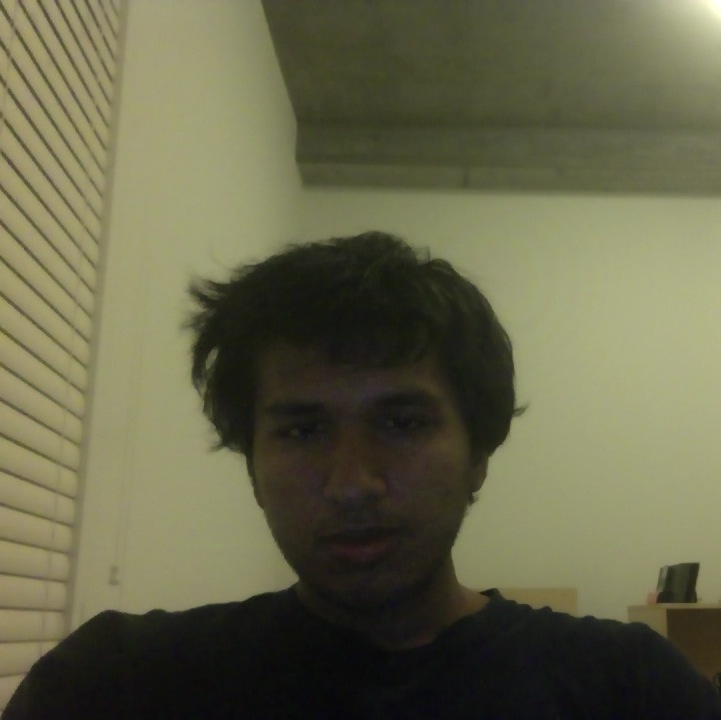
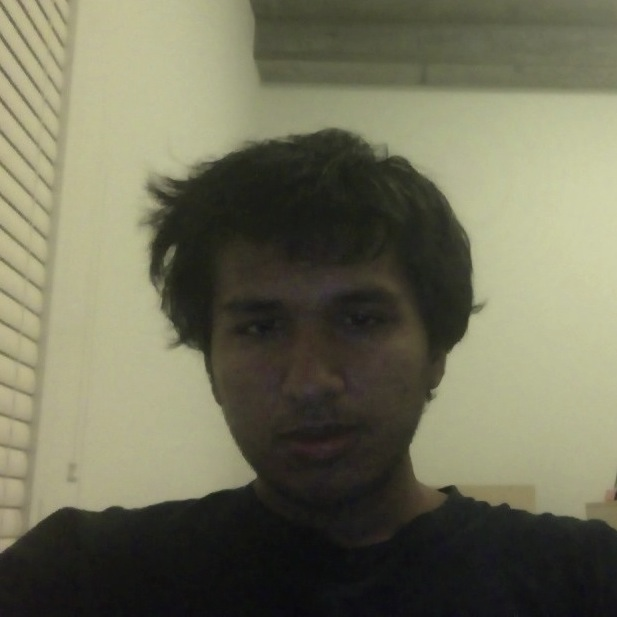
Updated Claire's pictures

diff --git a/officers.html b/officers.html
@@ -131,8 +131,11 @@
                 </div>
             </div>
             <div class="officer">
-                <div class="singlephoto">
-                    <img src="assets/images/officers/claire.jpg">
+                <div class="photoone">
+                    <img src="assets/images/officers/claire1.jpg">
+                </div>
+                <div class="phototwo">
+                    <img src="assets/images/officers/claire2.jpg">
                 </div>
                 <div class="info">
                     <div class="name">Claire Lieu</div>
